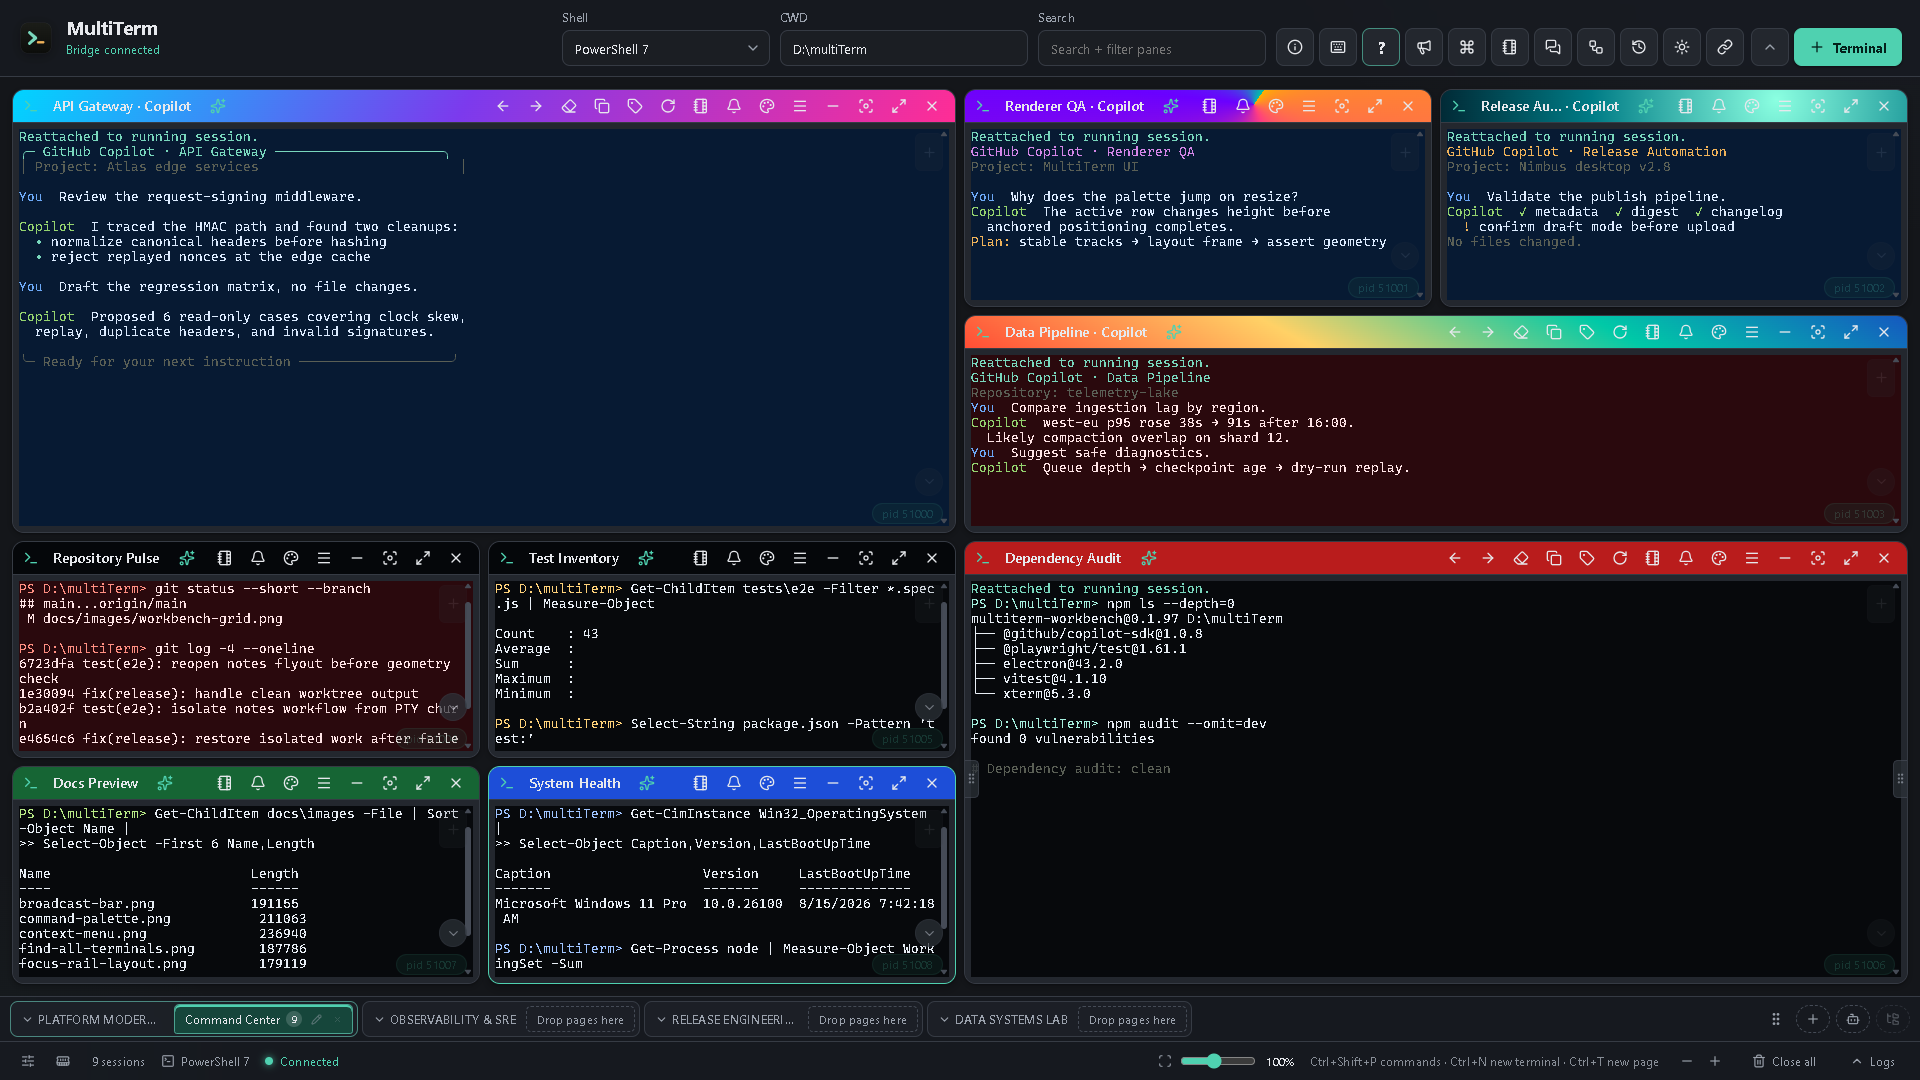
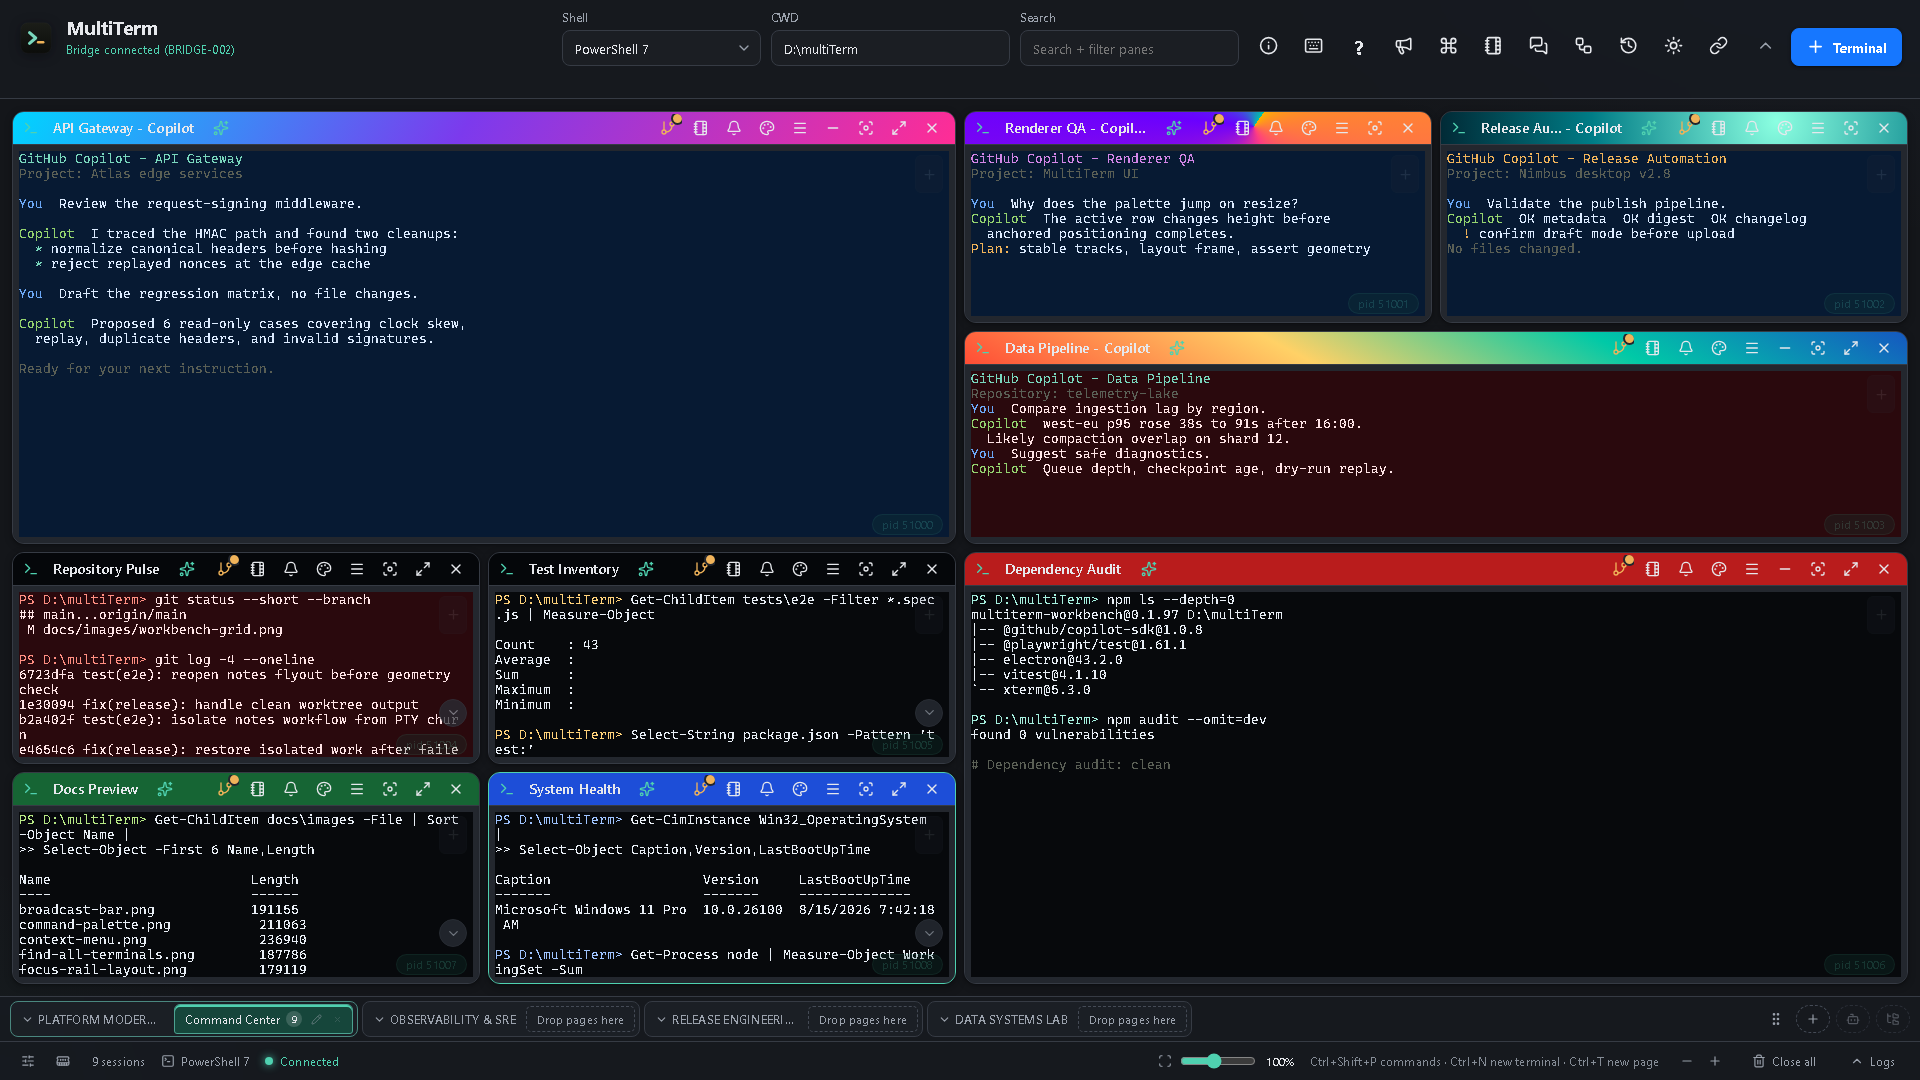
fix(ui): align narrow-layout topbar controls and refresh the workbench screenshot

diff --git a/public/styles.css b/public/styles.css
@@ -14322,6 +14322,21 @@ body[data-reveal-header-actions="true"] .terminal-pane:not(:hover):not(.is-activ
     width: calc(100% - 4px);
   }
 
+  /* Keep the primary action at the right edge once the cluster spans the full
+     width, matching the wide layout instead of trailing the icon run. */
+  .action-cluster #addTerminal {
+    margin-left: auto;
+  }
+
+  /* Level with the brand: stacked, the collapse control reads as part of the
+     tool row rather than as chrome for the whole bar. */
+  .topbar .topbar-collapse {
+    margin-left: 0;
+    position: absolute;
+    right: 18px;
+    top: 10px;
+  }
+
   .workbench {
     grid-template-areas: "settings" "stage";
     grid-template-columns: 1fr;
